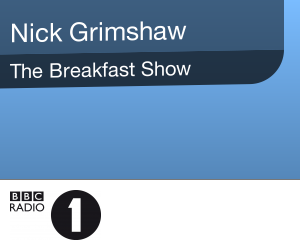
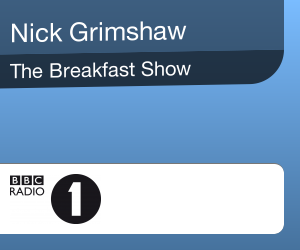
Readme, new styles to make examples look better

Changed region(s): [[0.0, 0.644, 1.0, 1.0]]

diff --git a/server/views/style.scss b/server/views/style.scss
@@ -66,8 +66,10 @@ h2 div {
   background-color: rgba(255, 255, 255, 1);
   height: 50px;
   position: absolute;
-  bottom: 0;
-  right: 0;
+  bottom: 16px;
+  right: 16px;
   left: 0;
   z-index: 100;
+  -webkit-border-top-right-radius: 10px;
+  -webkit-border-bottom-right-radius: 10px;
 }

diff --git a/README.md b/README.md
@@ -22,7 +22,7 @@ responsive design.
 
 #### server
 
-It serves slides as HTML, and is based on the popular Sinatra framework. In
+Serves slides as HTML. Based on the popular Sinatra framework. In
 this project, it's really just an example. You could use whatever you like
 to serve up slides - as the `capturer` just points at URLs.
 
